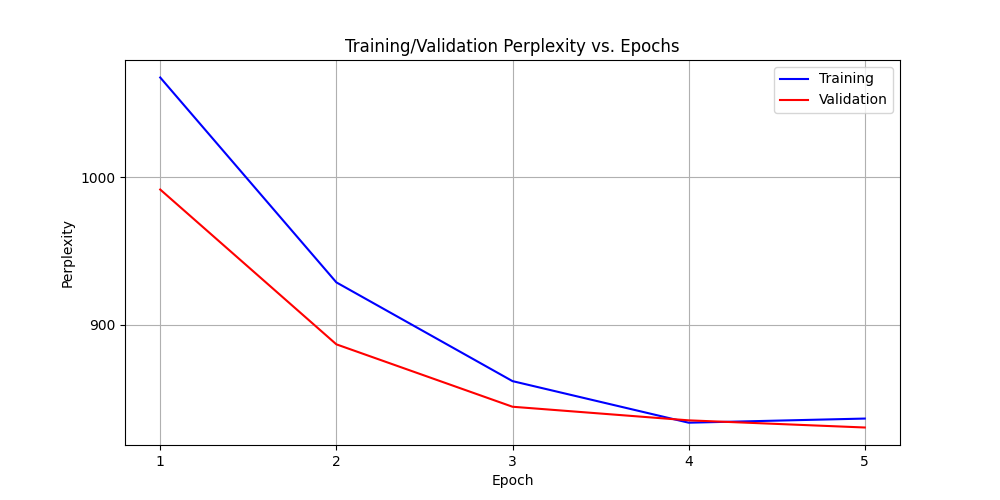
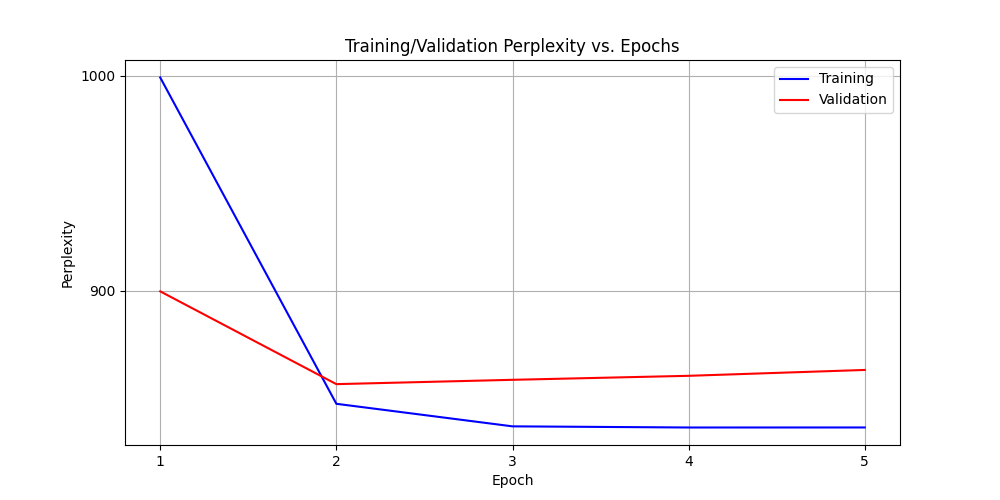
Align energy calculation with NGC framework, implement momentum-based inference, and energy-aware early termination.

diff --git a/predictive_coding/pc_layer.py b/predictive_coding/pc_layer.py
@@ -37,10 +37,12 @@ class PCLayer(nn.Module):
         self.lateral_connections: Dict[str, LateralConnections] = {}
         
         self._x_cache: Dict[str, torch.Tensor] = {}
+        self._v_cache: Dict[str, torch.Tensor] = {}
         self._mu_cache: Dict[str, torch.Tensor] = {}
         self._error_cache: Dict[str, torch.Tensor] = {}
-        self._energy = 0.0
+        self._energy_list = []
         self._errors = []
+        self._converged = False
     
     def register_lateral(self, layer_type: str, size: int):
         """Create and register lateral connections for layer_type."""
@@ -69,99 +71,73 @@ class PCLayer(nn.Module):
         input_ids: Optional[torch.Tensor] = None,
         position_ids: Optional[torch.Tensor] = None,
         flash: bool = False,
-        kv_cache: Optional[Tuple[torch.Tensor, torch.Tensor]] = None,  # ADD THIS
+        kv_cache: Optional[Tuple[torch.Tensor, torch.Tensor]] = None, 
         use_cache: bool = False, 
     ):
         """Perform one predictive coding inference step."""
         self._reset_step_state()
         x = self._get_cached_state(layer_type)
+        v = self._v_cache.get(layer_type, None)
+        
+        if self._converged:
+            return x, self.get_mu(layer_type)
 
         if layer_type == "embed":
             mu, mu_word, mu_pos, bu_err = step_embed(
-                t,
-                T,
-                target_activity,
-                layer,
-                layer_type,
-                input_ids,
-                position_ids,
-                self.local_lr,
-                self.clamp_value,
-                self.energy_fn_name,
-                requires_update,
-                layer_norm=layer_norm,
+                t, T, target_activity, layer, layer_type, input_ids, position_ids,
+                self.local_lr, self.clamp_value, self.energy_fn_name, requires_update, layer_norm=layer_norm,
             )            
-            # store for later retrieval
             self._x_cache["embed"] = (mu_word, mu_pos)
             self._mu_cache["embed"] = mu.detach().clone()
             if bu_err is not None:
                 self._error_cache["embed"] = bu_err.detach().clone()
 
-            # compute energy
             error = target_activity - mu
             energy, step_errors = finalize_step(mu, target_activity, error, t, layer_type, self.energy_fn_name)
-            self._energy += energy
+            self._energy_list.append(energy)
             self._errors.extend(step_errors)
             return mu_word, mu_pos
         
         elif layer_type == "attn":
             lateral_conn = self.lateral_connections.get(layer_type, None)
-            x, mu, bu_err, new_kv_cache = step_attn(
-                t,
-                T,
-                target_activity,
-                x,
-                lateral_conn,
-                proj_layers,
-                layer_type,
-                self.local_lr,
-                self.clamp_value,
-                self.energy_fn_name,
-                self.update_bias,
-                requires_update,
-                self.num_heads,
-                self.n_embed,
-                td_err=td_err, 
-                layer_norm=layer_norm,
-                flash=flash, 
-                kv_cache=kv_cache,  
-                use_cache=use_cache,
+            x, v, mu, bu_err, new_kv_cache = step_attn(
+                t, T, target_activity, x, lateral_conn, proj_layers, layer_type,
+                self.local_lr, self.clamp_value, self.energy_fn_name, self.update_bias,
+                requires_update, self.num_heads, self.n_embed, td_err=td_err, 
+                layer_norm=layer_norm, flash=flash, kv_cache=kv_cache, use_cache=use_cache, v=v
             )
-            # Store cache for retrieval
             if use_cache:
                 self._last_kv_cache = new_kv_cache
         
         else:
             lateral_conn = self.lateral_connections.get(layer_type, None)
-            x, mu, bu_err = step_linear(
-                t,
-                T,
-                target_activity,
-                x,
-                layer, 
-                lateral_conn,  
-                layer_type,
-                self.local_lr, 
-                self.clamp_value, 
-                self.energy_fn_name, 
-                self.update_bias, 
-                requires_update,
-                td_err=td_err, 
-                layer_norm=layer_norm
+            x, v, mu, bu_err = step_linear(
+                t, T, target_activity, x, layer, lateral_conn, layer_type,
+                self.local_lr, self.clamp_value, self.energy_fn_name, self.update_bias,
+                requires_update, td_err=td_err, layer_norm=layer_norm, v=v
             )
             
         # cache and stats
         self._mu_cache[layer_type] = mu.detach().clone()  
         if bu_err is not None: 
-         self._error_cache[layer_type] = bu_err.detach().clone()   
+            self._error_cache[layer_type] = bu_err.detach().clone()   
         
         error = target_activity - mu
         energy, step_errors = finalize_step(mu, target_activity, error, t, layer_type, self.energy_fn_name)
-        self._energy += energy
+        
+        # Energy-Aware Termination: If energy change is < 0.1%, mark as converged
+        if len(self._energy_list) > 0:
+            prev_energy = self._energy_list[-1]
+            relative_diff = abs(energy - prev_energy) / (prev_energy + 1e-9)
+            if relative_diff < 0.001: # 0.1% threshold
+                self._converged = True
+
+        self._energy_list.append(energy)
         self._errors.extend(step_errors)
 
-        # update x cache
+        # update caches
         self._x_cache[layer_type] = x
+        self._v_cache[layer_type] = v
         return x, mu
 
     def init_x(
@@ -228,12 +204,14 @@ class PCLayer(nn.Module):
 
     def get_energy(self) -> Optional[float]:
         """Get the accumulated energy for the layer."""
-        return float(self._energy)
+        return float(sum(self._energy_list)) if self._energy_list else 0.0
 
     def clear_energy(self):
         """Clear the stored energy and cached states for the layer."""
-        self._energy = 0.0
+        self._energy_list = []
+        self._converged = False
         self._x_cache.clear()
+        self._v_cache.clear()
         self._mu_cache.clear()
         
     def get_errors(self) -> list:

diff --git a/utils/pc_utils.py b/utils/pc_utils.py
@@ -58,9 +58,9 @@ def step_embed(
             word_layer.weight.data.index_add_(0, flat_input_ids, delta)
             pos_layer.weight.data.index_add_(0, flat_position_ids, delta)
             
-    if t == T - 1:
-           finalize_step(mu, target, error, t, layer_type, energy_fn_name)
-  
+    # if t == T - 1:
+    #        finalize_step(mu, target, error, t, layer_type, energy_fn_name)
+
     return mu, mu_word, mu_pos, error
     
 def step_linear(
@@ -77,12 +77,15 @@ def step_linear(
     update_bias: bool,
     requires_update: bool,
     td_err: Optional[torch.Tensor],
-    layer_norm: Optional[nn.Module], 
+    layer_norm: Optional[nn.Module],
+    v: Optional[torch.Tensor] = None,
    ):
     """
     Predictive coding step for linear-like layers.
-    Returns: (updated_x, mu, bu_err)
+    Returns: (updated_x, updated_v, mu, bu_err)
     """
+    if v is None:
+        v = torch.zeros_like(x)
     if layer_norm is not None and layer_type == "fc1":
         x_input = layer_norm(x)
     elif layer_type == "fc2":
@@ -108,12 +111,14 @@ def step_linear(
     
     if lateral_conn is not None:
         delta_x = lateral_conn.forward(x, error)
-        x = x + local_lr * delta_x
+        v = 0.9 * v + local_lr * delta_x
+        x = x + v
 
         if requires_update:
             lateral_conn.update_weights(x.detach())
     else:
-        x= x + local_lr * error 
+        v = 0.9 * v + local_lr * error
+        x = x + v 
 
     x = torch.clamp(x, -abs(clamp_value), abs(clamp_value))
     
@@ -127,10 +132,10 @@ def step_linear(
             delta_b = torch.clamp(delta_b, -0.01, 0.01)
             layer.bias.data.add_(delta_b)
 
-    if t == T - 1:
-        finalize_step(mu, target, error, t, layer_type,energy_fn_name)
+    # if t == T - 1:
+    #     finalize_step(mu, target, error, t, layer_type,energy_fn_name)
 
-    return x, mu, bu_err
+    return x, v, mu, bu_err
 
 def step_attn(
     t: int,
@@ -152,6 +157,7 @@ def step_attn(
     flash: bool = False,
     kv_cache: Optional[Tuple[torch.Tensor, torch.Tensor]] = None,
     use_cache: bool = False,
+    v: Optional[torch.Tensor] = None,
     ):
     """
     Predictive coding step for attention with KV caching support.
@@ -207,14 +213,19 @@ def step_attn(
     bu_err = target - mu  # B, T, D
     error = bu_err - td_err if td_err is not None else bu_err  
                 
+    if v is None:
+        v = torch.zeros_like(x)
+
     if lateral_conn is not None:
         delta_x = lateral_conn.forward(x, error)
-        x = x + local_lr * delta_x
+        v = 0.9 * v + local_lr * delta_x
+        x = x + v
         
         if requires_update:
             lateral_conn.update_weights(x.detach())
     else:
-        x = x + local_lr * error
+        v = 0.9 * v + local_lr * error
+        x = x + v
 
     x = torch.clamp(x, -abs(clamp_value), abs(clamp_value))
 
@@ -254,10 +265,10 @@ def step_attn(
                         delta_b_v = (v_slice.mean(dim=(0, 1)) / (B * S))
                         v_proj.bias.data[start:end] += torch.clamp(local_lr * delta_b_v, -clamp_value, clamp_value)
  
-    if t == T - 1:
-        finalize_step(mu, target, error, t, layer_type,energy_fn_name)
-     
-    return x, mu, bu_err, new_kv_cache
+    # if t == T - 1:
+    #     finalize_step(mu, target, error, t, layer_type,energy_fn_name)
+
+    return x, v, mu, bu_err, new_kv_cache
     
 ENERGY_FUNCTIONS = {
     "pc_e": lambda mu, x: ((mu - x) ** 2) * 0.5,    
@@ -275,7 +286,8 @@ def finalize_step(mu: torch.Tensor, target: torch.Tensor, error: torch.Tensor, t
     device = mu.device
     target = target.to(device)
     error = error.to(device)
-    energy = float(energy_fn(mu, target, energy_fn_name).mean().item())
+    # energy = float(energy_fn(mu, target, energy_fn_name).mean().item())
+    energy = float(energy_fn(mu, target, energy_fn_name).sum().item())
     errors = [{"step": t, "type": layer_type, "error": error.mean().item()}]
     return energy, errors
     

diff --git a/utils/config_utils.py b/utils/config_utils.py
@@ -22,6 +22,7 @@ def load_best_config():
         "n_embed": 512,
         "dropout": 0.46876145412214615,
         "T": 2,
+        # "T": 30,
         "num_heads": 32,
         "n_blocks": 12,
         "update_bias": False,
